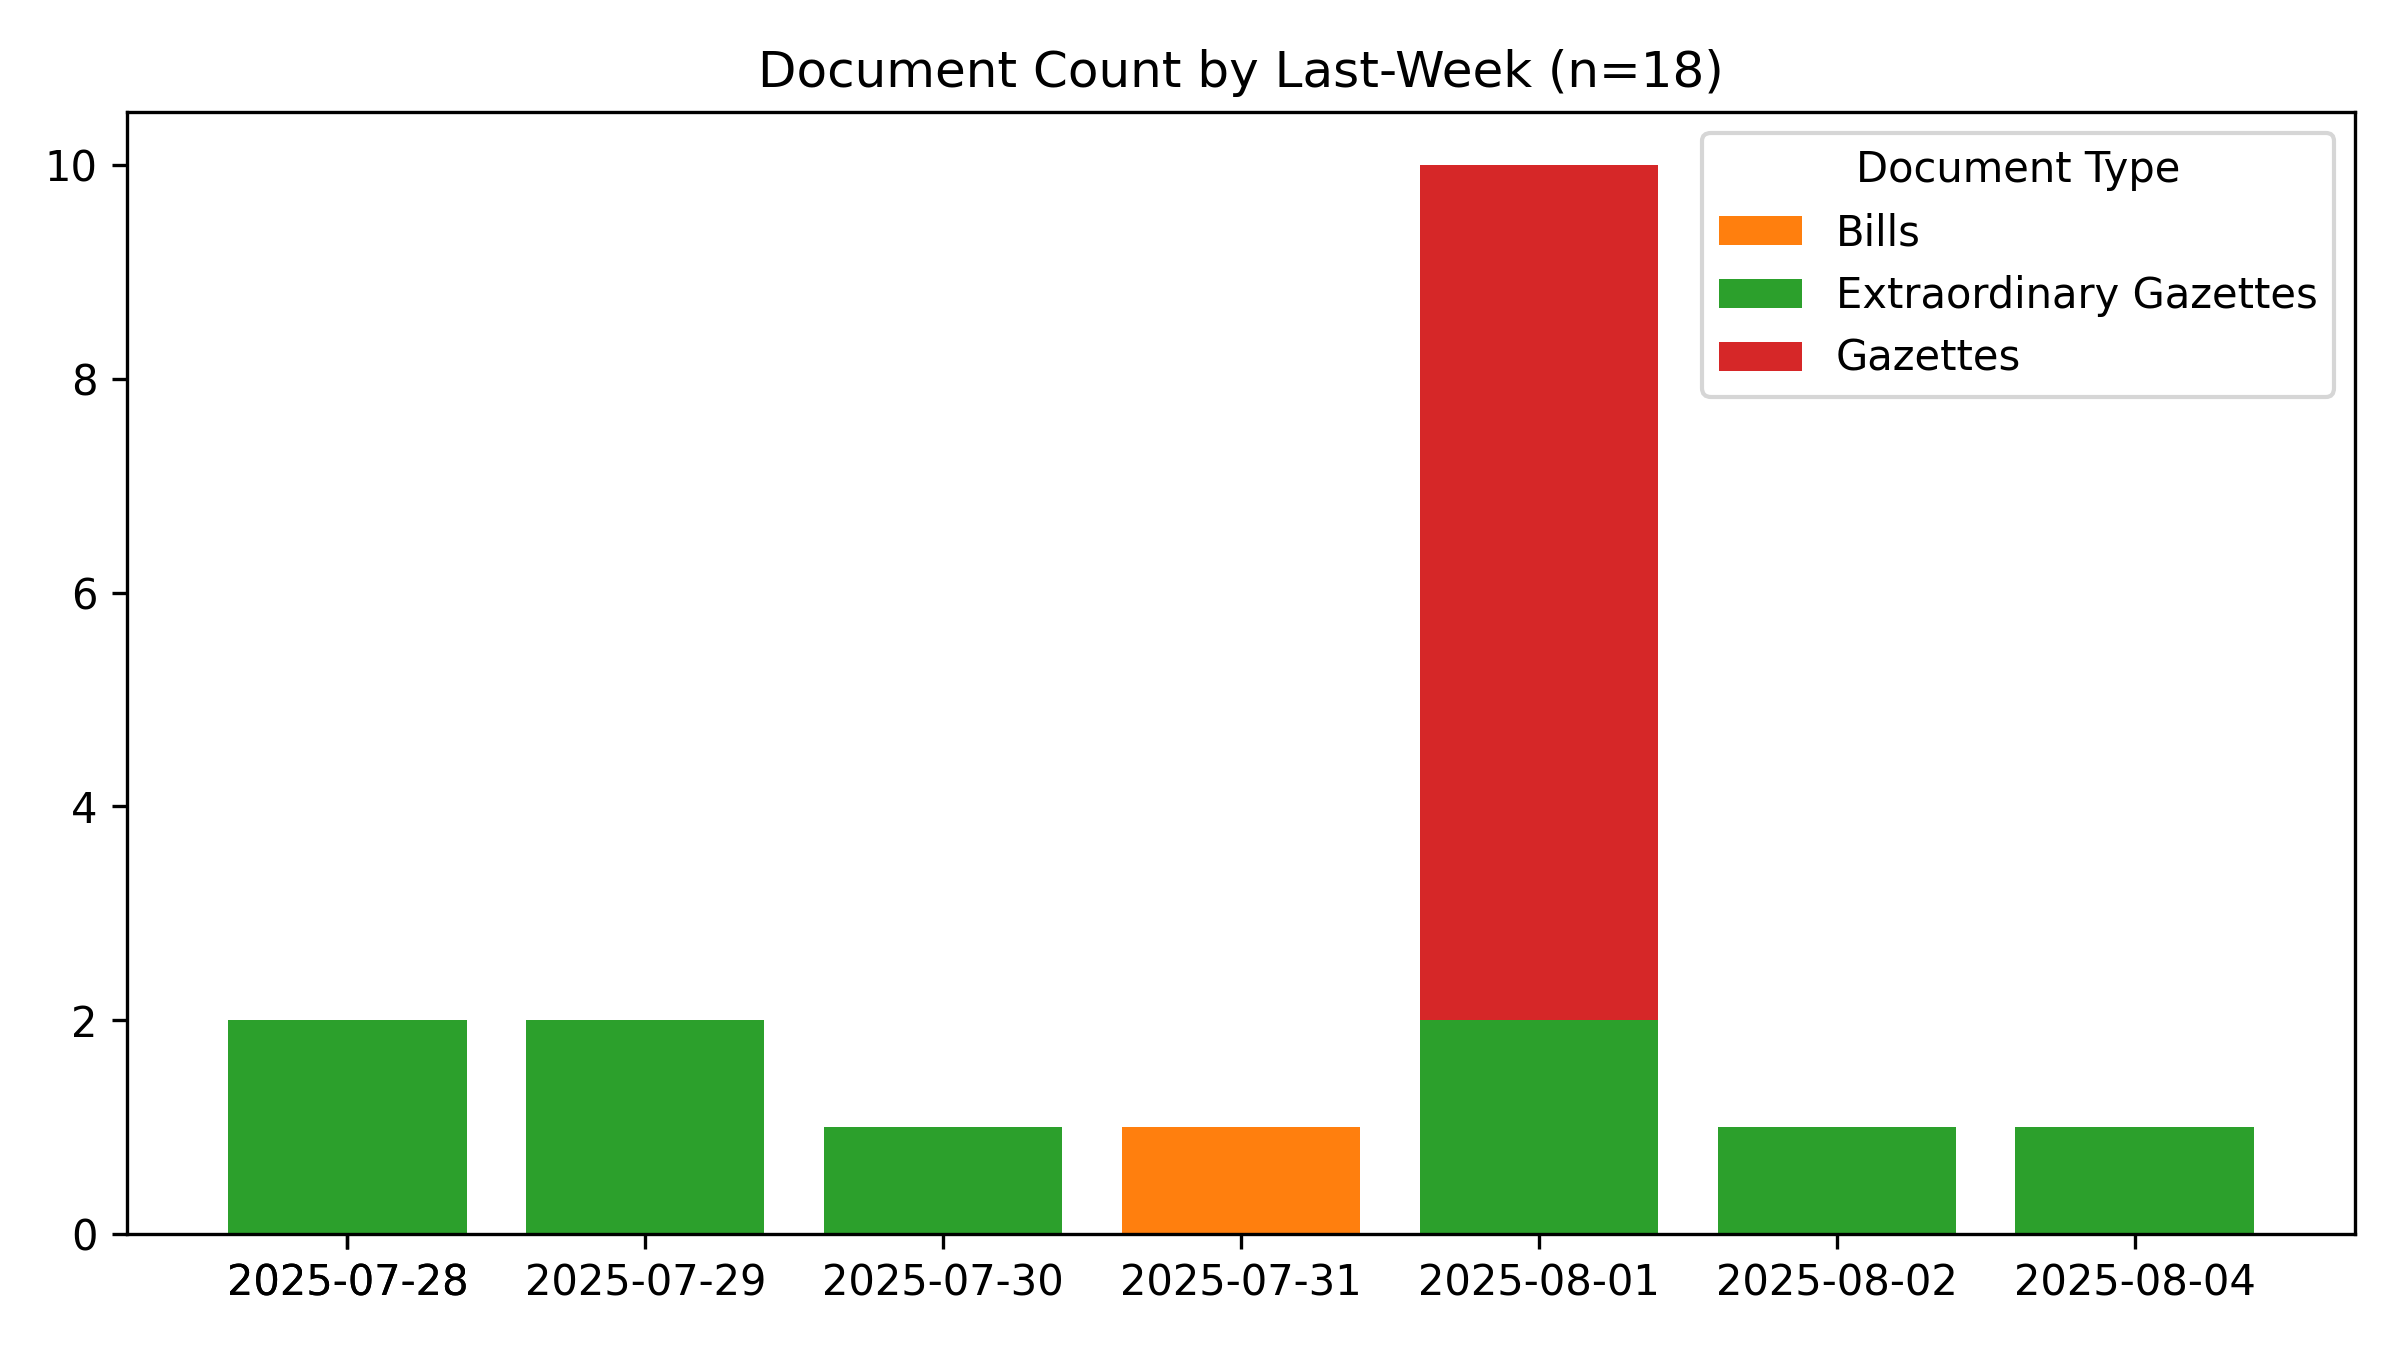
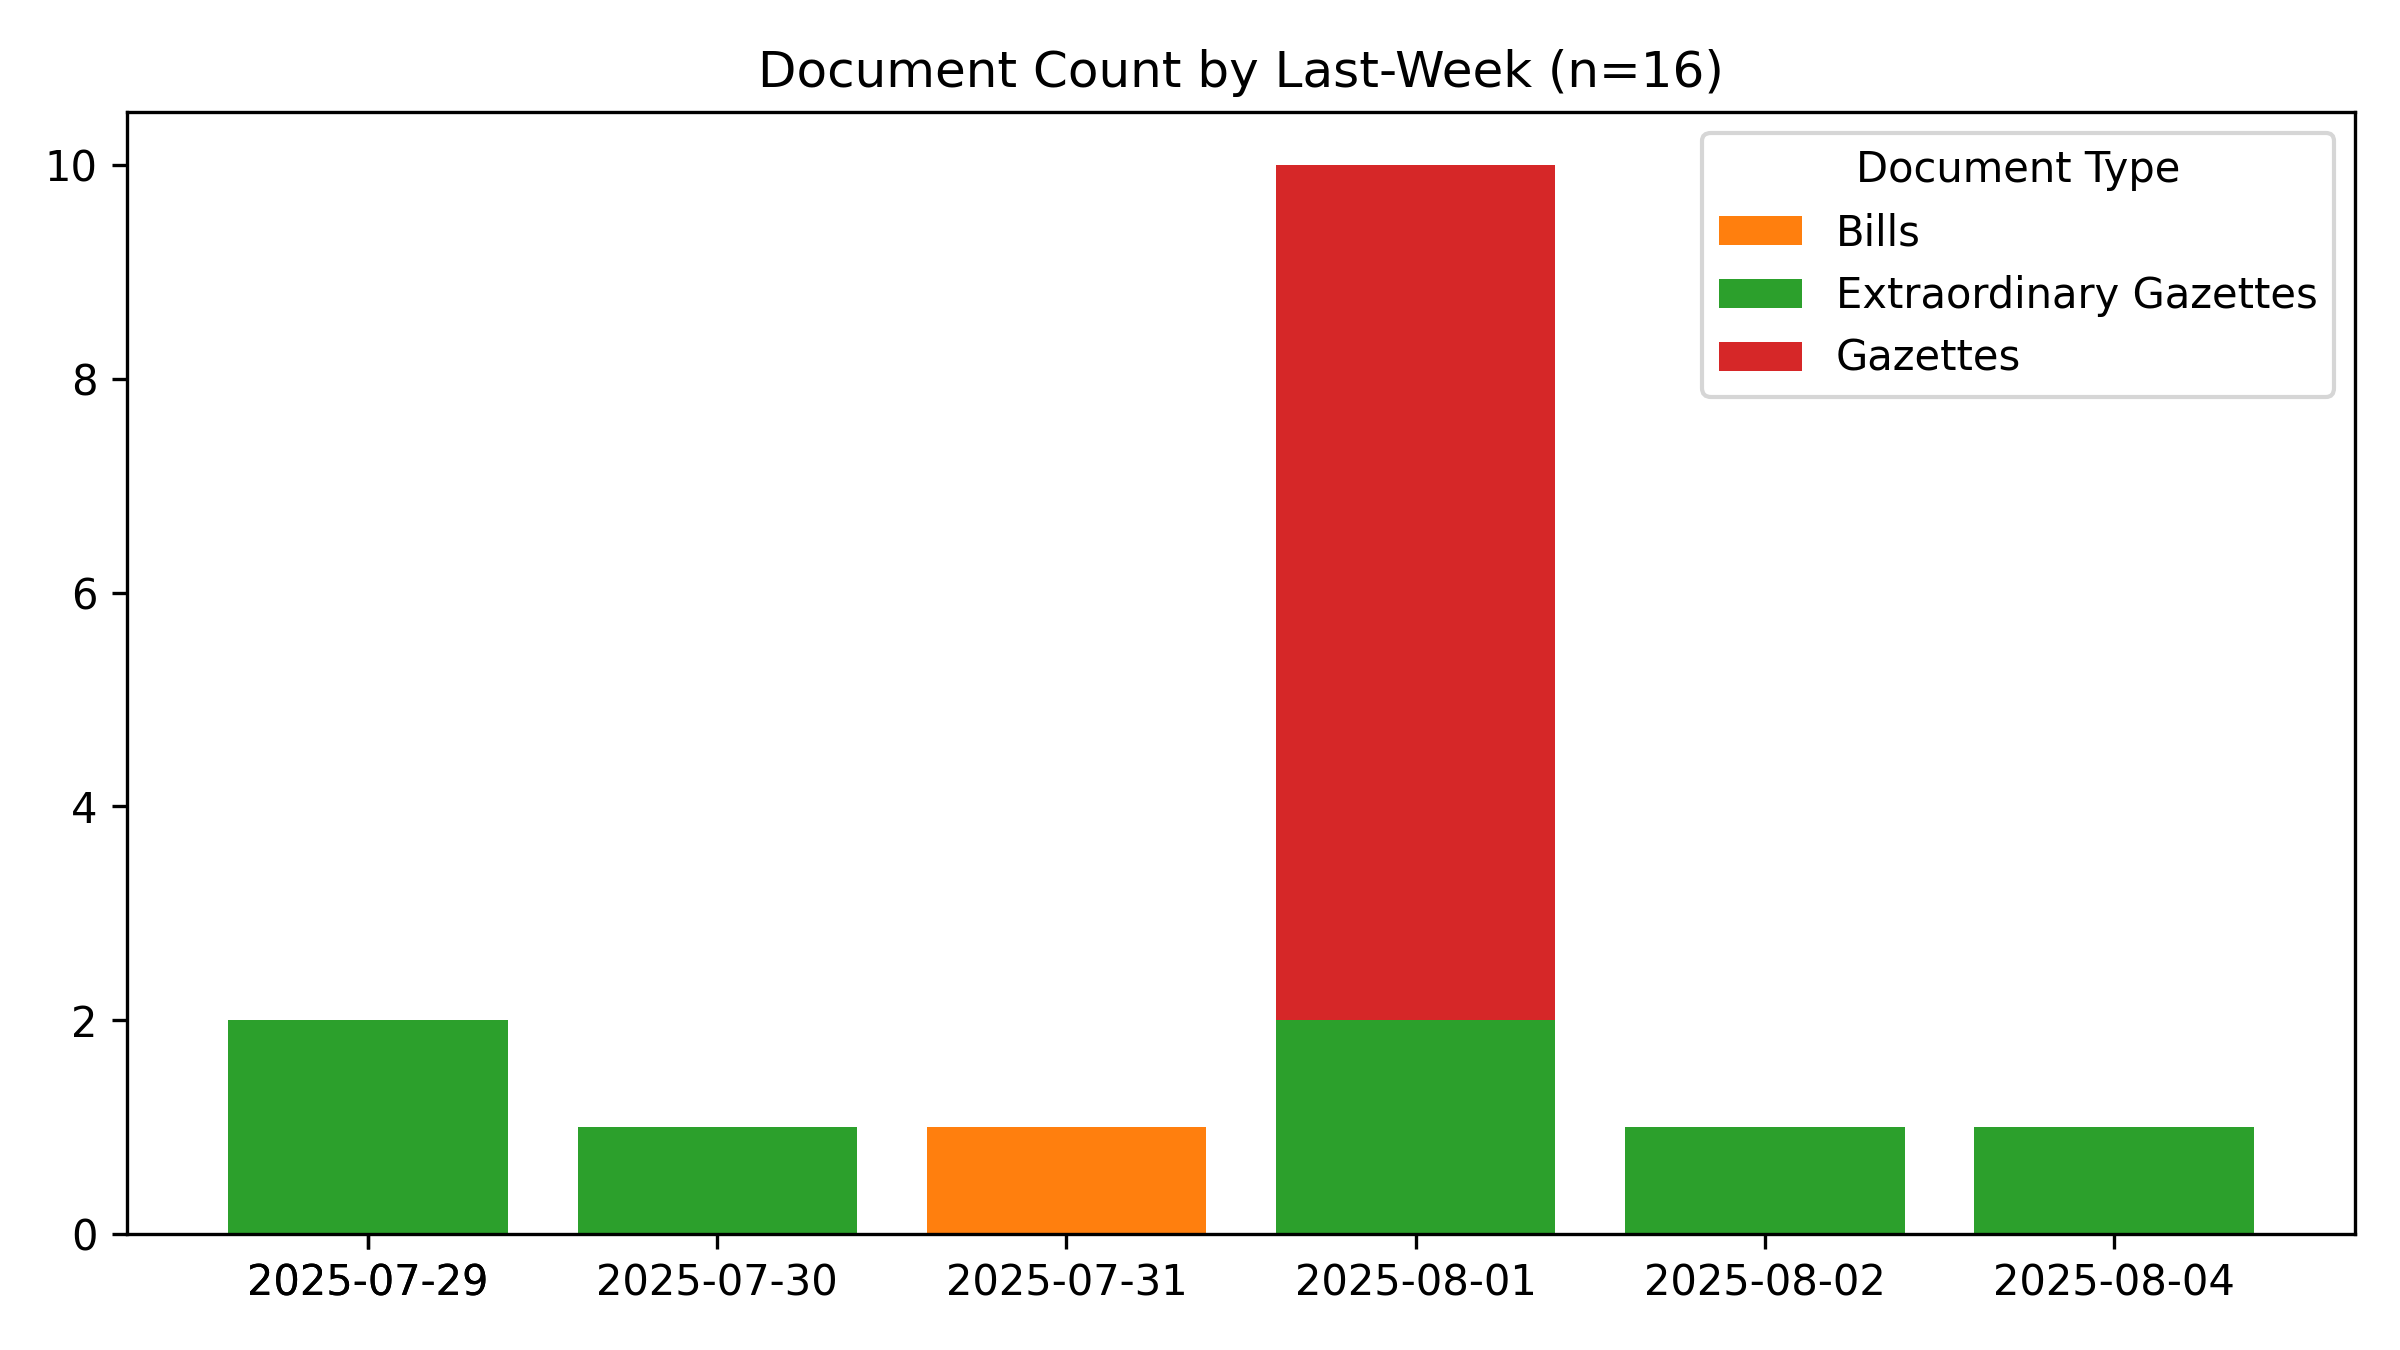
🤖 [build_readme.yml] 2025-08-05-0020

Changed region(s): [[0.0938, 0.1244, 0.9375, 0.9644], [0.6875, 0.0311, 0.7188, 0.0622]]

diff --git a/README.md b/README.md
@@ -1,6 +1,6 @@
 # #SriLanka 🇱🇰 - Legal Documents #Dataset
 
-*Last Updated **2025-08-05 05:15:57**.*
+*Last Updated **2025-08-05 05:50:27**.*
 
 **44,214** documents (24.2 MB), from 1981-01-22 to 2025-08-04.
 
@@ -36,11 +36,11 @@ For best results, use a desktop browser.
 | decade | n_docs | n_docs_with_pdfs | p_progress | n_pdfs | total_file_size_g |
 | :-- | --: | --: | --: | --: | --: |
 | [2020s](https://github.com/nuuuwan/lk_legal_docs_data/tree/data_2020s/data) | 18,005 | 17,995 | >99.9% | 51,502 | 21.1 GB |
-| [2010s](https://github.com/nuuuwan/lk_legal_docs_data/tree/data_2010s/data) | 24,451 | 20,846 | 85.3% | 59,429 | 19.5 GB |
+| [2010s](https://github.com/nuuuwan/lk_legal_docs_data/tree/data_2010s/data) | 24,451 | 20,880 | 85.4% | 59,525 | 19.5 GB |
 | [2000s](https://github.com/nuuuwan/lk_legal_docs_data/tree/data_2000s/data)✅ | 1,015 | 1,015 | 100% | 2,923 | 1.8 GB |
 | [1990s](https://github.com/nuuuwan/lk_legal_docs_data/tree/data_1990s/data)✅ | 339 | 339 | 100% | 655 | 0.2 GB |
 | [1980s](https://github.com/nuuuwan/lk_legal_docs_data/tree/data_1980s/data)✅ | 404 | 404 | 100% | 603 | 0.3 GB |
-| **Total** | **44,214** | **40,599** | **91.8%** | **115,112** | **42.8 GB** |
+| **Total** | **44,214** | **40,633** | **91.9%** | **115,208** | **42.9 GB** |
 
 (✅ = All published documents have been downloaded.)
 
@@ -56,7 +56,7 @@ For best results, use a desktop browser.
 
 ## Recent Documents (Published during the last 7 days)
 
-**18** Documents
+**16** Documents
 
 - 🚨 [2025-08-04] [Sri Lanka Customs- Rates of Exchange with effect from 04.08.2025 to 10.08.2025](https://github.com/nuuuwan/lk_legal_docs_data/tree/data_2020s/data/extra-gazettes/2025/2448-01)
 - 🚨 [2025-08-02] [Election Commission - Notice under Section 66A (1) Filling of a Vacancy in the office of member of the Horana Urban Council](https://github.com/nuuuwan/lk_legal_docs_data/tree/data_2020s/data/extra-gazettes/2025/2447-81)
@@ -74,5 +74,3 @@ For best results, use a desktop browser.
 - 🚨 [2025-07-30] [Election Commission - Notice under Section 66 A(1) Filling of a Vacancy in the office of members of the Walikaman West Pradeshiya Sabha](https://github.com/nuuuwan/lk_legal_docs_data/tree/data_2020s/data/extra-gazettes/2025/2447-28)
 - 🚨 [2025-07-29] [Sri Lanka Ports Authority- Certificate under and Interms of Section 42 A (1) of the Sri Lanka Ports Authority - ABCC Phoenix Shipping (Pvt) Limited](https://github.com/nuuuwan/lk_legal_docs_data/tree/data_2020s/data/extra-gazettes/2025/2447-25)
 - 🚨 [2025-07-29] [Ministry of Labour - Industrial dispute between Mr. P. A. Bogoda and Upali Newspapers (Pvt) Ltd 2.W. M. Ashaka Damayanthi and Sri Lanka Mahaweli Authority 3. D. M. Dissanayaka and SLTB](https://github.com/nuuuwan/lk_legal_docs_data/tree/data_2020s/data/extra-gazettes/2025/2447-24)
-- 🚨 [2025-07-28] [Land Title Settlement Dept. - Kendaliyaddapaluwa, Mahara D/S Division, Gampaha District (7846)](https://github.com/nuuuwan/lk_legal_docs_data/tree/data_2020s/data/extra-gazettes/2025/2447-02)
-- 🚨 [2025-07-28] [Sri Lanka Customs - Rates of Exchange from 28.07.2025 to 03.08.2025](https://github.com/nuuuwan/lk_legal_docs_data/tree/data_2020s/data/extra-gazettes/2025/2447-01)
